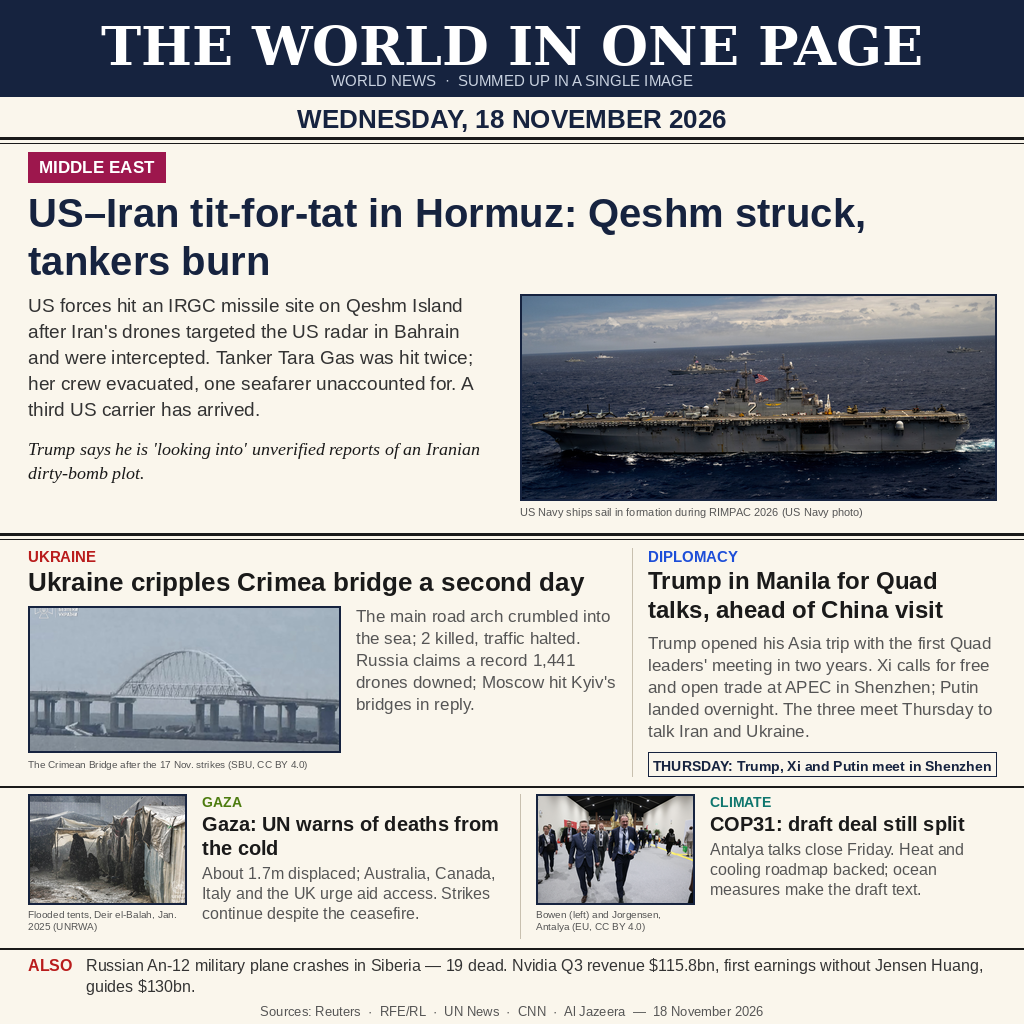
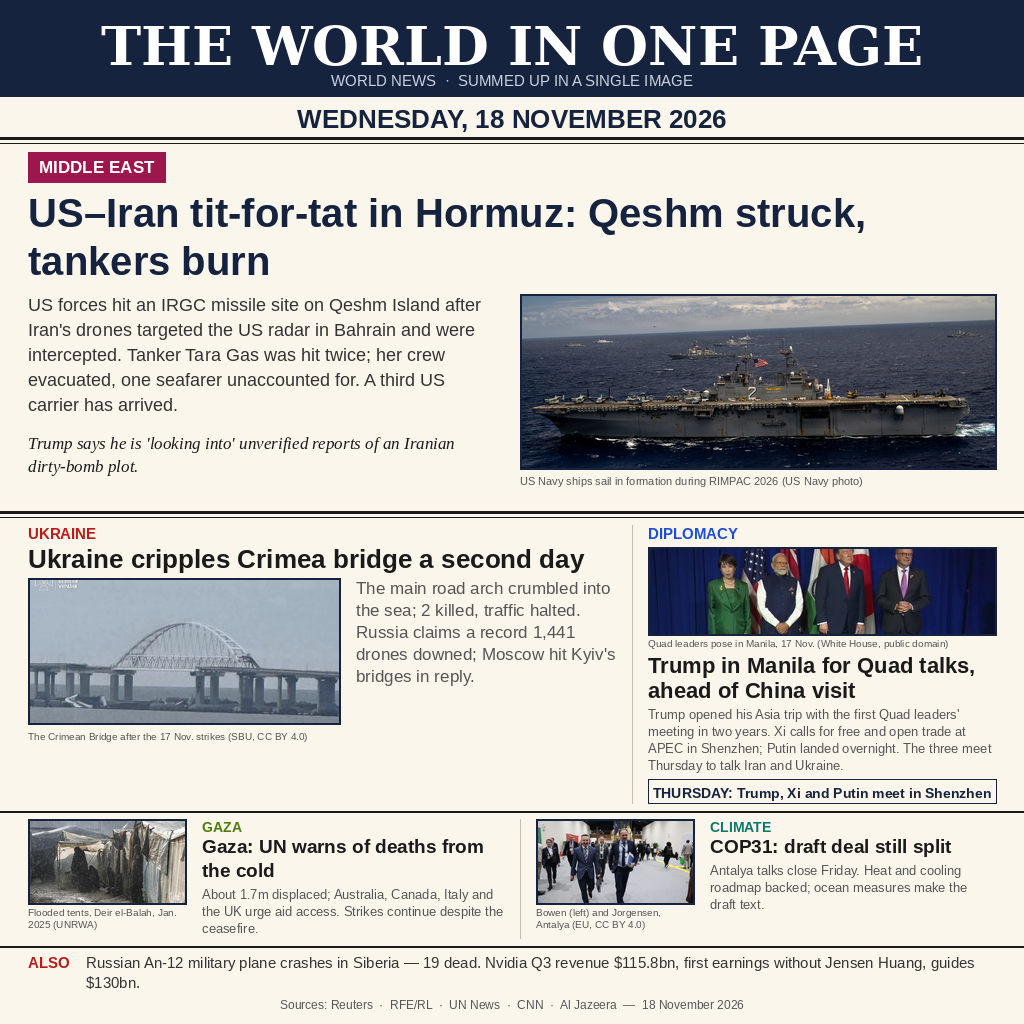
v3: Diplomacy gains a real photo (Quad leaders, Manila) — all 5 main stories now have photos

Changed region(s): [[0.0, 0.2812, 1.0, 1.0], [0.0312, 0.2812, 0.4688, 0.4688]]

diff --git a/render_image.py b/render_image.py
@@ -1,22 +1,35 @@
 #!/usr/bin/env python3
-"""Render the entry image for make.fun news-image-20261118 (v2).
+"""Render the entry image for make.fun news-image-20261118 (v3).
 
 A real newspaper front page summing up the world news of Wednesday
 18 November 2026, in the style of a broadsheet front page (masthead,
 full-width lead headline, varied multi-column grid below).
+
+v3: same stories, same text and same broadsheet layout as v2, but MORE
+real photos -- every main story now has one. The Diplomacy story gains
+a real photo (the Quad leaders in Manila); the layout is tightened
+(shorter lead photo, smaller Diplomacy body type) to fit it in.
+Positions below the lead are computed from the content (flow-based),
+so nothing overlaps.
 
 PHOTOS ARE REAL, freely licensed, verified against their source pages:
   lead_carrier.jpg  - US Navy ships in formation, RIMPAC 2026
                       (US Navy photo, public domain)
   bridge_collapse.jpg - Crimean Bridge after the 17 Nov 2026 strikes
                       (Security Service of Ukraine, CC BY 4.0)
+  quad_manila.jpg   - Quad leaders (Takaichi, Modi, Trump, Albanese)
+                      pose in Manila, 17 Nov 2026. Still from the
+                      White House video "President Trump Greets Quad
+                      Leaders and Participates in a Photo Opportunity"
+                      (The White House, public domain); the video's
+                      lower-third banner was cropped out, nothing
+                      else altered.
+                      Source: https://commons.wikimedia.org/wiki/File:President_Trump_Greets_Quad_Leaders_and_Participates_in_a_Photo_Opportunity.webm
   cop31.jpg         - COP31, Chris Bowen & Dan Jorgensen, Antalya 10 Nov 2026
                       (European Union / EC Audiovisual Service, CC BY 4.0)
   gaza_tents.jpg    - Flooded tents, Deir el-Balah, Gaza, Jan 2025
                       (UNRWA / Ashraf Amra, CC BY-SA 3.0 IGO)
-The Diplomacy story is text-only: no freely licensed photo of the
-17 Nov Manila Quad meeting was available in time (the group photo
-is AP-copyrighted; Wikimedia had not indexed a White House photo yet).
+The ALSO strip stays text-only by design.
 Photos are cropped to fill their frames (no distortion); text sits on
 plain paper, never on top of a photo.
 Output: entry.png beside this file (1024x1024 PNG, <= 1 MiB).
@@ -143,119 +156,137 @@ def main():
         d.text((MARGIN, y), ln, font=f_head, fill=NAVY)
         y += 48
 
-    # lead body, left column
-    f_body = font(SANS, 19)
+    # lead body, left column (slightly tighter than v2 to make room below)
+    f_body = font(SANS, 18)
     body = ("US forces hit an IRGC missile site on Qeshm Island after Iran's "
             "drones targeted the US radar in Bahrain and were intercepted. "
             "Tanker Tara Gas was hit twice; her crew evacuated, one seafarer "
             "unaccounted for. A third US carrier has arrived.")
-    yb = draw_text_block(d, MARGIN, 294, body, f_body, 468, 26, (51, 51, 51))
+    yb = draw_text_block(d, MARGIN, 294, body, f_body, 468, 25, (51, 51, 51))
     quote = ("Trump says he is 'looking into' unverified reports of an "
              "Iranian dirty-bomb plot.")
-    draw_text_block(d, MARGIN, yb + 14, quote, italic(18), 468, 24, INK)
+    yq = draw_text_block(d, MARGIN, yb + 14, quote, italic(17), 468, 23, INK)
 
-    # lead photo, right
-    place_photo(img, "lead_carrier.jpg", 520, 294, 476, 206)
-    caption(d, 520, 506,
-            "US Navy ships sail in formation during RIMPAC 2026 (US Navy photo)",
-            476)
+    # lead photo, right (shorter than v2)
+    place_photo(img, "lead_carrier.jpg", 520, 294, 476, 175)
+    cap_end = caption(d, 520, 475,
+                      "US Navy ships sail in formation during RIMPAC 2026 (US Navy photo)",
+                      476)
 
-    # ---- double rule ---------------------------------------------------
-    d.line([(0, 534), (W, 534)], fill=INK, width=3)
-    d.line([(0, 539), (W, 539)], fill=INK, width=1)
+    # ---- double rule (below whichever lead element ends lower) --------
+    lead_bottom = max(yq, cap_end)
+    rule_y = lead_bottom + 24
+    d.line([(0, rule_y), (W, rule_y)], fill=INK, width=3)
+    d.line([(0, rule_y + 5), (W, rule_y + 5)], fill=INK, width=1)
 
-    # ---- row 1: Ukraine (photo) + Diplomacy (text-only) ---------------
+    # ---- row 1: Ukraine (photo) + Diplomacy (photo, new in v3) --------
+    y0 = rule_y + 13
     # Ukraine, left wide column
-    y = 548
+    y = y0
     y = kicker(d, MARGIN, y, "UKRAINE", RED)
     f_h1 = font(SANS_BOLD, 26)
     d.text((MARGIN, y), "Ukraine cripples Crimea bridge a second day",
            font=f_h1, fill=INK)
-    place_photo(img, "bridge_collapse.jpg", MARGIN, 606, 312, 146)
-    caption(d, MARGIN, 758,
-            "The Crimean Bridge after the 17 Nov. strikes (SBU, CC BY 4.0)",
-            312, size=10)
+    place_photo(img, "bridge_collapse.jpg", MARGIN, y0 + 53, 312, 146)
+    uk_cap = caption(d, MARGIN, y0 + 53 + 146 + 6,
+                     "The Crimean Bridge after the 17 Nov. strikes (SBU, CC BY 4.0)",
+                     312, size=10)
     f_b1 = font(SANS, 17)
-    draw_text_block(d, 356, 606,
-                    "The main road arch crumbled into the sea; 2 killed, "
-                    "traffic halted. Russia claims a record 1,441 drones "
-                    "downed; Moscow hit Kyiv's bridges in reply.",
-                    f_b1, 264, 22, GRAY)
-    # vertical divider
-    d.line([(632, 548), (632, 776)], fill=LIGHT_RULE, width=1)
+    uk_body = draw_text_block(d, 356, y0 + 53,
+                              "The main road arch crumbled into the sea; 2 killed, "
+                              "traffic halted. Russia claims a record 1,441 drones "
+                              "downed; Moscow hit Kyiv's bridges in reply.",
+                              f_b1, 264, 22, GRAY)
+    uk_bottom = max(uk_cap, uk_body)
 
-    # Diplomacy, right narrow column, text-only
-    y = 548
+    # Diplomacy, right narrow column, now with a real photo
+    y = y0
     y = kicker(d, 648, y, "DIPLOMACY", BLUE)
-    f_h2 = font(SANS_BOLD, 24)
-    y = draw_text_block(d, 648, y,
+    place_photo(img, "quad_manila.jpg", 648, y0 + 22, 348, 88)
+    dip_cap = caption(d, 648, y0 + 22 + 88 + 2,
+                      "Quad leaders pose in Manila, 17 Nov. (White House, public domain)",
+                      348, size=10)
+    f_h2 = font(SANS_BOLD, 22)
+    y = draw_text_block(d, 648, dip_cap + 4,
                         "Trump in Manila for Quad talks, ahead of China visit",
-                        f_h2, 348, 29, INK)
-    draw_text_block(d, 648, y + 8,
-                    "Trump opened his Asia trip with the first Quad leaders' "
-                    "meeting in two years. Xi calls for free and open trade "
-                    "at APEC in Shenzhen; Putin landed overnight. The three "
-                    "meet Thursday to talk Iran and Ukraine.",
-                    f_b1, 348, 22, GRAY)
-    # Thursday box
-    d.rectangle([648, 752, 996, 776], outline=NAVY, width=1)
+                        f_h2, 348, 25, INK)
+    dip_body = draw_text_block(d, 648, y + 4,
+                               "Trump opened his Asia trip with the first Quad leaders' "
+                               "meeting in two years. Xi calls for free and open trade "
+                               "at APEC in Shenzhen; Putin landed overnight. The three "
+                               "meet Thursday to talk Iran and Ukraine.",
+                               font(SANS, 13), 348, 17, GRAY)
+    # Thursday box, just below the body (no overlap by construction)
+    box_top = dip_body + 4
+    d.rectangle([648, box_top, 996, box_top + 24], outline=NAVY, width=1)
     f_box = font(SANS_BOLD, 14)
     bx = "THURSDAY: Trump, Xi and Putin meet in Shenzhen"
-    d.text((648 + (348 - d.textlength(bx, font=f_box)) / 2, 758), bx,
+    d.text((648 + (348 - d.textlength(bx, font=f_box)) / 2, box_top + 6), bx,
            font=f_box, fill=NAVY)
+    dip_bottom = box_top + 24
+
+    # vertical divider between the two columns
+    row1_bottom = max(uk_bottom, dip_bottom)
+    d.line([(632, y0), (632, row1_bottom)], fill=LIGHT_RULE, width=1)
 
     # ---- rule ----------------------------------------------------------
-    d.line([(0, 786), (W, 786)], fill=INK, width=2)
+    rule2_y = row1_bottom + 8
+    d.line([(0, rule2_y), (W, rule2_y)], fill=INK, width=2)
 
     # ---- row 2: Gaza + COP31, horizontal strips ------------------------
+    y2 = rule2_y + 8
     # Gaza, left
-    y = 794
-    place_photo(img, "gaza_tents.jpg", MARGIN, 794, 158, 110)
-    caption(d, MARGIN, 908,
-            "Flooded tents, Deir el-Balah, Jan. 2025 (UNRWA)",
-            158, size=10)
-    kicker(d, 202, y, "GAZA", OLIVE, size=14)
-    f_h3 = font(SANS_BOLD, 20)
-    yy = draw_text_block(d, 202, 812,
+    place_photo(img, "gaza_tents.jpg", MARGIN, y2, 158, 85)
+    gz_cap = caption(d, MARGIN, y2 + 85 + 2,
+                     "Flooded tents, Deir el-Balah, Jan. 2025 (UNRWA)",
+                     158, size=10)
+    kicker(d, 202, y2, "GAZA", OLIVE, size=14)
+    f_h3 = font(SANS_BOLD, 19)
+    yy = draw_text_block(d, 202, y2 + 16,
                          "Gaza: UN warns of deaths from the cold",
                          f_h3, 310, 24, INK)
-    draw_text_block(d, 202, yy + 4,
-                    "About 1.7m displaced; Australia, Canada, Italy and the "
-                    "UK urge aid access. Strikes continue despite the "
-                    "ceasefire.",
-                    font(SANS, 16), 310, 20, GRAY)
+    gz_body = draw_text_block(d, 202, yy + 4,
+                              "About 1.7m displaced; Australia, Canada, Italy and the "
+                              "UK urge aid access. Strikes continue despite the "
+                              "ceasefire.",
+                              font(SANS, 13), 310, 17, GRAY)
+    gz_bottom = max(gz_cap, gz_body)
     # vertical divider
-    d.line([(520, 794), (520, 938)], fill=LIGHT_RULE, width=1)
+    d.line([(520, y2), (520, gz_bottom)], fill=LIGHT_RULE, width=1)
 
     # COP31, right
-    place_photo(img, "cop31.jpg", 536, 794, 158, 110)
-    caption(d, 536, 908,
-            "Bowen (left) and Jorgensen, Antalya (EU, CC BY 4.0)",
-            158, size=10)
-    kicker(d, 710, y, "CLIMATE", TEAL, size=14)
-    yy = draw_text_block(d, 710, 812,
+    place_photo(img, "cop31.jpg", 536, y2, 158, 85)
+    cp_cap = caption(d, 536, y2 + 85 + 2,
+                     "Bowen (left) and Jorgensen, Antalya (EU, CC BY 4.0)",
+                     158, size=10)
+    kicker(d, 710, y2, "CLIMATE", TEAL, size=14)
+    yy = draw_text_block(d, 710, y2 + 16,
                          "COP31: draft deal still split",
                          f_h3, 286, 24, INK)
-    draw_text_block(d, 710, yy + 4,
-                    "Antalya talks close Friday. Heat and cooling roadmap "
-                    "backed; ocean measures make the draft text.",
-                    font(SANS, 16), 286, 20, GRAY)
+    cp_body = draw_text_block(d, 710, yy + 4,
+                              "Antalya talks close Friday. Heat and cooling roadmap "
+                              "backed; ocean measures make the draft text.",
+                              font(SANS, 13), 286, 17, GRAY)
+    cp_bottom = max(cp_cap, cp_body)
+
+    row2_bottom = max(gz_bottom, cp_bottom)
 
     # ---- footer: also strip + sources ----------------------------------
-    d.line([(0, 948), (W, 948)], fill=INK, width=2)
-    f_also_tag = font(SANS_BOLD, 16)
-    f_also = font(SANS, 16)
-    d.text((MARGIN, 956), "ALSO", font=f_also_tag, fill=RED)
-    draw_text_block(d, MARGIN + 58, 956,
-                    "Russian An-12 military plane crashes in Siberia — 19 "
-                    "dead. Nvidia Q3 revenue $115.8bn, first earnings without "
-                    "Jensen Huang, guides $130bn.",
-                    f_also, W - MARGIN - (MARGIN + 58), 21, (51, 51, 51))
-    f_src = font(SANS, 13)
+    ftr_y = row2_bottom + 8
+    d.line([(0, ftr_y), (W, ftr_y)], fill=INK, width=2)
+    f_also_tag = font(SANS_BOLD, 15)
+    f_also = font(SANS, 15)
+    d.text((MARGIN, ftr_y + 8), "ALSO", font=f_also_tag, fill=RED)
+    also_end = draw_text_block(d, MARGIN + 58, ftr_y + 8,
+                               "Russian An-12 military plane crashes in Siberia — 19 "
+                               "dead. Nvidia Q3 revenue $115.8bn, first earnings without "
+                               "Jensen Huang, guides $130bn.",
+                               f_also, W - MARGIN - (MARGIN + 58), 20, (51, 51, 51))
+    f_src = font(SANS, 12)
     src = ("Sources: Reuters  ·  RFE/RL  ·  UN News  ·  CNN  ·  Al Jazeera  "
            "—  18 November 2026")
-    d.text(((W - d.textlength(src, font=f_src)) / 2, 1004), src, font=f_src,
-           fill=GRAY)
+    d.text(((W - d.textlength(src, font=f_src)) / 2, also_end + 4), src,
+           font=f_src, fill=GRAY)
 
     img.save("entry.png", format="PNG", optimize=True)
     print("wrote entry.png")
